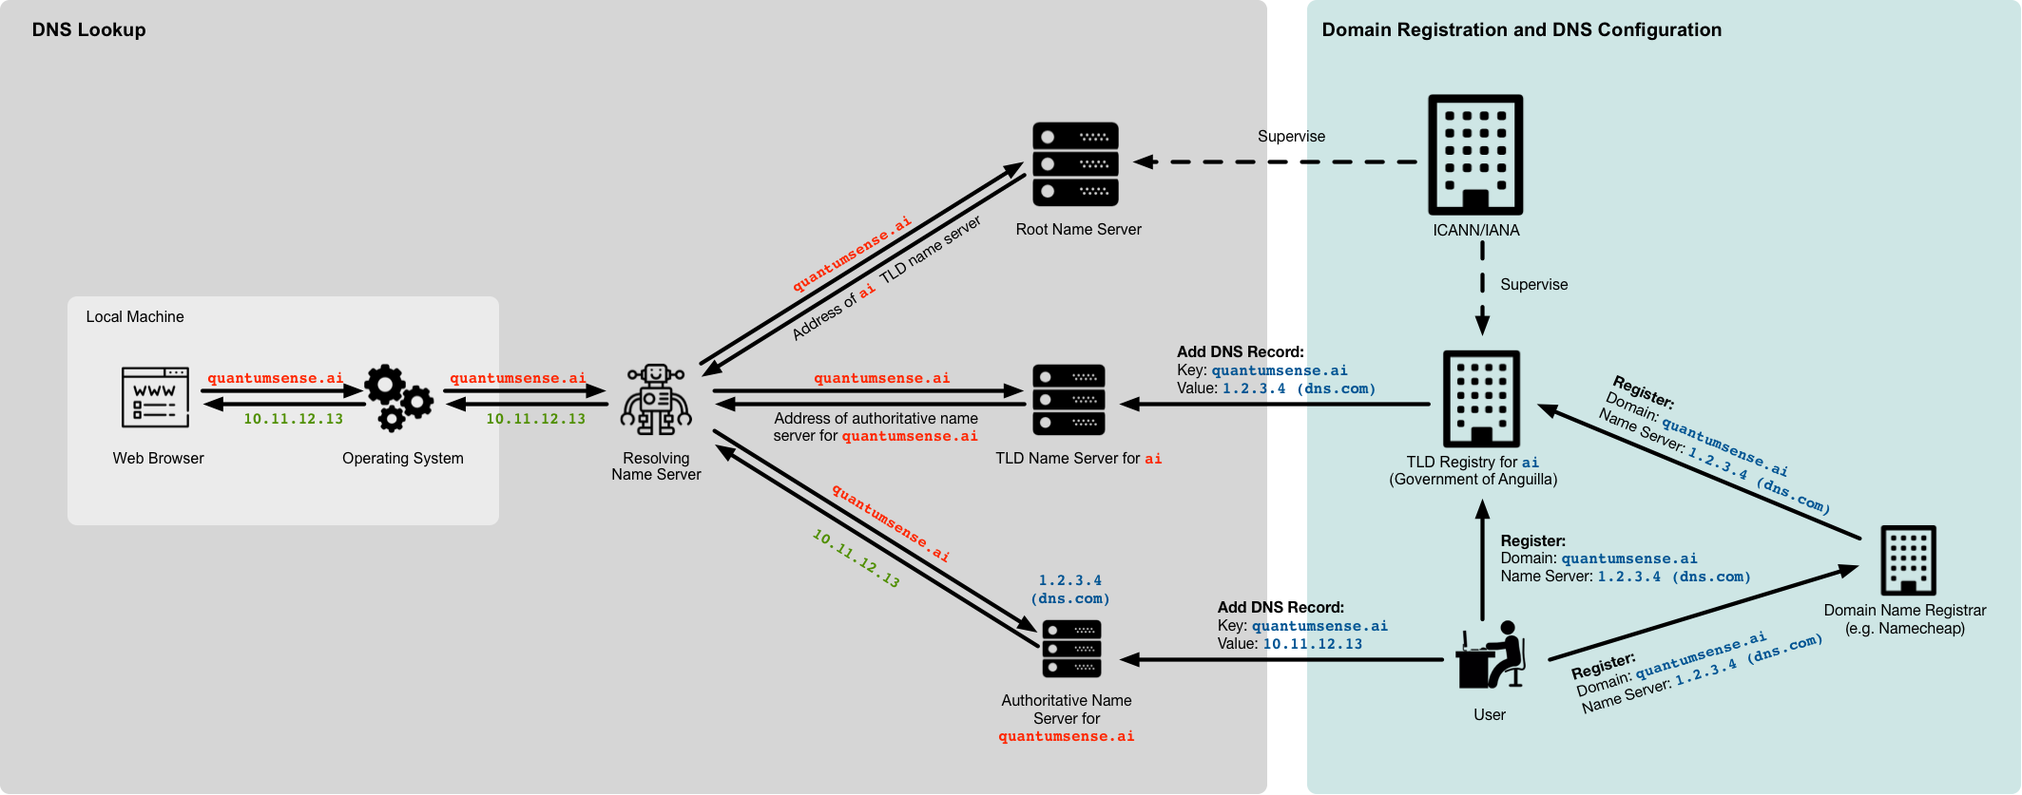
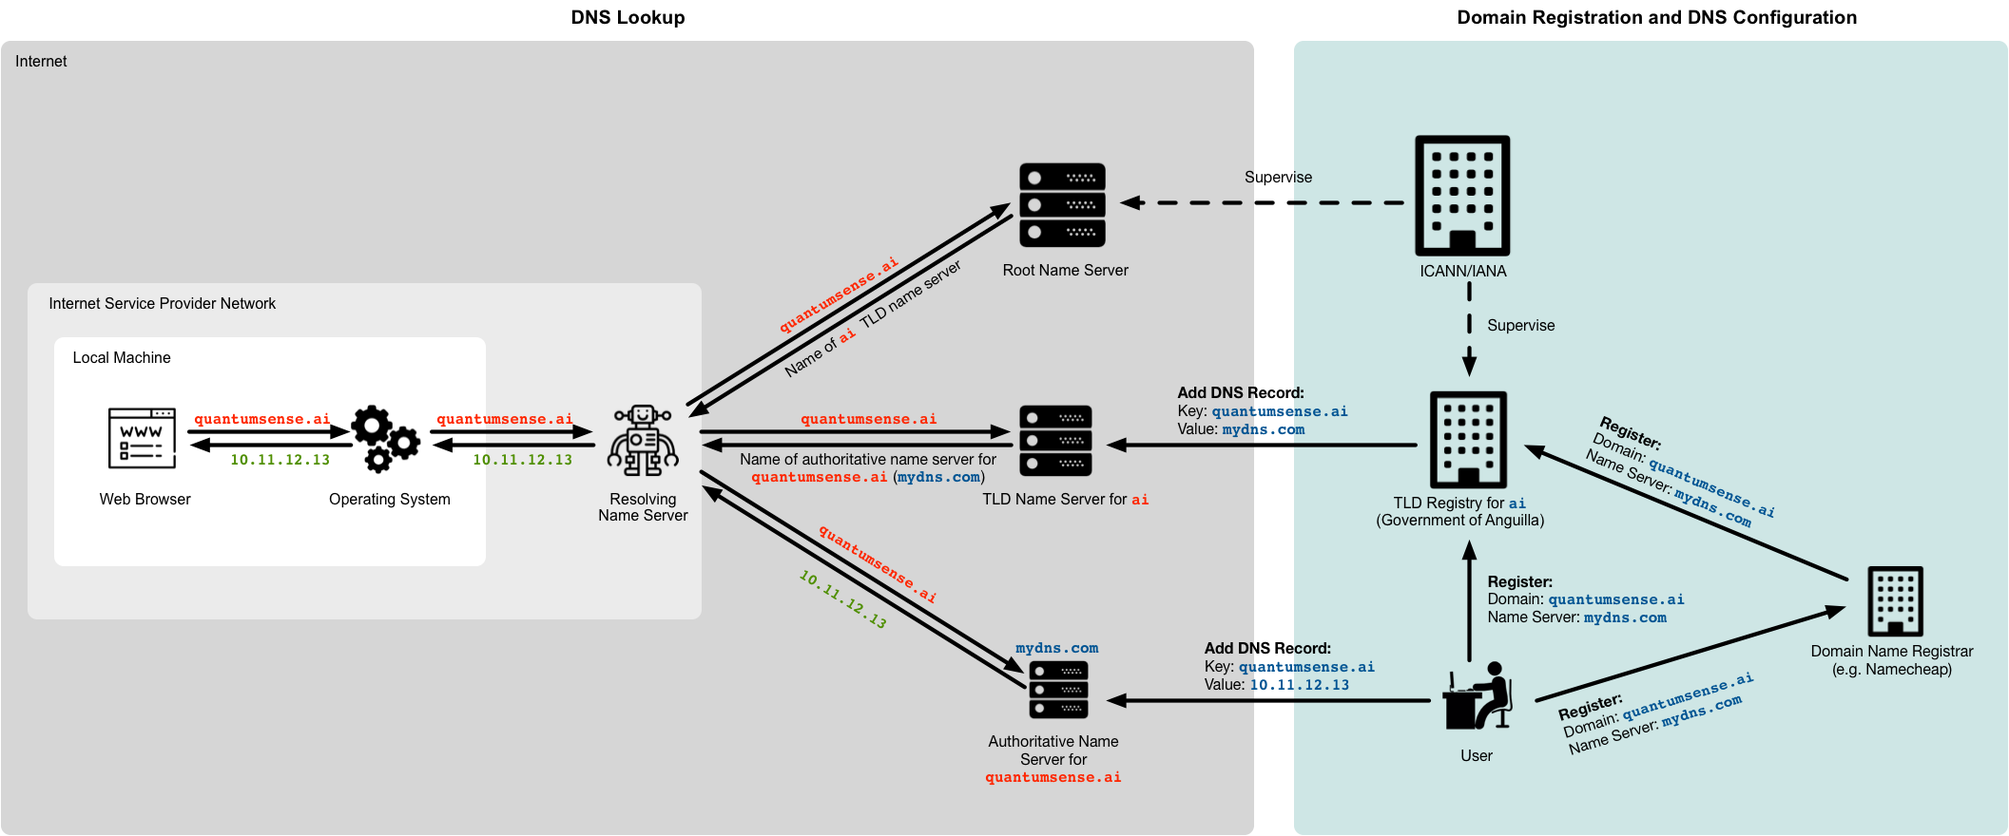
Edit document (How DNS works)

Changed region(s): [[0.0, 0.0, 0.9995, 0.994]]

diff --git a/_misc/dns.md b/_misc/dns.md
@@ -7,13 +7,18 @@ last_updated: 18 February 2018
 
 An overview of how the Domain Name System (DNS) works. It includes a step-by-step explanation of DNS lookups, and a section on domain registration and DNS configuration.
 
+# Contents
+
+- TOC
+{:toc .toc-skip-first}
+
 # Illustration
 
 [![DNS Overview](assets/dns.png){:width="100%"}](assets/dns.png){:.image-link}
 
 # DNS Lookup
 
-The DNS translates hostnames, like `quantumsense.ai` to IP addresses. Here is how a translation of the hostname `quantumsense.ai` to an IP address of a webserver works (this corresponds ot the left part of above illustration):
+The DNS translates hostnames, like `quantumsense.ai` to IP addresses. Here is how a translation of the hostname `quantumsense.ai` to an IP address of a webserver works (this corresponds to the left part of above illustration):
 
 ## 1. Web Browser
 
@@ -24,13 +29,13 @@ The **operating system** checks its cache. If it has no cached entry for `quantu
 
 ## 3. Resolving Name Server
 
-The **resolving name server** that the operating system contacts is typically operated by the Internet Service Provider (ISP) or organisation (company, university) of the network that the machine is connected to. Find out which resolving name servers are configured in your operating system with:
+The **resolving name server** that the operating system contacts is typically operated by the Internet Service Provider (ISP) or organisation (company, university) of the network that the machine is connected to. You can find out which resolving name servers are currently configured in your operating system with:
 
 ~~~bash
 scutil --dns | grep 'nameserver\[[0-9]*\]'
 ~~~
 
-The resolving name servers knows one thing: an address of a root name server. So, the resolving name server checks its cache for an entry of `quantumsense.ai`. If it has none, it asks a root name server for the IP address of `quantumsense.ai`.
+The resolving name servers knows one thing: the IP address of a root name server. So, after checking its cache for an entry of `quantumsense.ai`, the resolving name server asks the root name server for the IP address of `quantumsense.ai`.
 
 ## 4. Root Name Server
 
@@ -38,13 +43,13 @@ The **root servers** are a network of hundreds of servers around the world that 
 
 The root servers are operated by different organisations, such as research institutions, companies, governments, universities, and ICANN itself. Here is some information from IANA about the [root servers](https://www.iana.org/domains/root/servers). And here is a [map](http://www.root-servers.org/) showing where all the root servers are located and who operates them.
 
-A root server has to know one thing: an address of a top-level domain (TLD) name server for each TLD.
+A root server has to know one thing: the name of a top-level domain (TLD) name server for each existing TLD.
 
 There exist two main types of TLDs: generic TLDs (gTLD) and country-code TLDs (ccTLDs). Country-code TLDs consist of two letters, and generic TLDs consist of three or more letters.
 
 Here, IANA lists all existing [TLDs](https://www.iana.org/domains/root/db) along with the TLD registry who manages this TLD.
 
-The root server doesn't know the IP address of `quantumsense.ai`, but it knows the IP address of an `ai` TLD name server, and it returns this address to the resolving name server. This allows the resolving name server to ask this `ai` TLD name server for the IP address of `quantumsense.ai`.
+The root server doesn't know the IP address of `quantumsense.ai`, however, as mentioned, it knows the name of an `ai` TLD name server, which it returns to the resolving name server. This is going to allow the resolving name server to ask this `ai` TLD name server for the IP address of `quantumsense.ai`.
 
 ## 5. TLD Name Server
 
@@ -52,49 +57,127 @@ The **TLD name servers** are operated by the TLD registry of each TLD (which are
 
 A TLD registry manages all the domain name registrations under its TLD. The TLD registry determines the prices and conditions for a domain registration. For example, if you want to register the domain `example.com`, you have to do this with the TLD registry for `com`, which is [VeriSign](https://www.verisign.com/). Or if you want to register the domain `example.ca`, you have to go to the TLD registry of `ca`, which is the Canadian Internet Registration Authority ([CIRA](https://cira.ca/)).
 
-Note that actually you don't have to go to the TLD registry directly, because there are middlemen companies that can handle the interaction with the official TLD registry for you. These middlemen company are called domain name registrars, and examples are [Namecheap](https://www.namecheap.com/), [GoDaddy](https://godaddy.com), or [Marcaria](https://www.marcaria.com).
+Note that actually you don't have to go to the TLD registry directly, because there are retailing companies that are called **domain name registrars**. Examples are [Namecheap](https://www.namecheap.com/), [GoDaddy](https://godaddy.com), or [Marcaria](https://www.marcaria.com). These companies handle the interaction with the official TLD registry for you, and you can typically register domains of different TLDs with them.
 
-So, in the case of `quantumsense.ai`, a peek on the IANA [TLD list](https://www.marcaria.com) reveals that the registry for the `ai` TLD is the [Government of Anguilla](http://www.gov.ai/) (because `ai` is the country-code TLD of Anguilla). This means that the IP address that the resolving name server received from the root name server is the address of a TLD name server operated by the Government of Anguilla (actually, the servers don't have to be operated by the registry itself, but the registry is responsible for their operation).
+So, in the case of `quantumsense.ai`, the IANA [TLD list](https://www.iana.org/domains/root/db/ai.html) reveals that the registry for the `ai` TLD is the [Government of Anguilla](http://www.gov.ai/) (because `ai` is the ccTLD of Anguilla). This means that the name the resolving name server received from the root name server belongs to a TLD name server operated by the Government of Anguilla. You can see the current TLD name servers for the `ai` TLD [here](https://www.iana.org/domains/root/db/ai.html) in the IANA TLD list.
 
-A TLD server doesn't know the IP address of any domain using its TLD. That is, the Government of Anguilla TLD server does not know the IP address of `quantumsense.ai`. However, what the TLD name server know is the IP address of yet another name server that knows the desired IP address. This latter name server is called the authoritative name server of `quantumsense.ai`.
+The `ai` TLD name server doesn't know the IP address of `quantumsense.ai`, but what it know is the name of a name server that is responsible for the `quantumsense.ai` domain. It thus returns this name of this name server to the resolving name server. This will finally allow the resolving name server to get the IP address of `quantumsense.ai`.
 
-So, the TLD server returns the IP address of an authoritative name server for `quantumsense.ai` to the resolving name server. This will finally allow the resolving name server to get the IP address of `quantumsense.ai`.
+If you wonder how the `ai` TLD name server knows a name server that is responsible for the `quantumsense.ai` domain, this will be explained the [next section](#domain-registration-and-dns-configuration).
 
 ## 6. Authoritative Name Server
 
-**Authoritative name servers** are name servers that know the IP address of a sub-TLD domain name, such as `quantumsense.ai`.
+The name server that was returned by the `ai` TLD name server to the resolving name server is an **authoritative name server** for the `quantumsense.ai` domain. This means that it hosts the mapping of this domain name to an IP address (that was installed there by the user). So, at this point, there are no more redirections to other name servers, but the authoritative name server directly returns the IP address of `quantumsense.ai` to the resolving name server.
 
-This type of name severs can be operated by anyone. You can run one yourself for your domain. The only condition is that it runs on a machine that is connected to the Internet. This can be a machine in your home, or a rented computing instance in the cloud (e.g. on Amazon Web Services). Here is an example of how to [run your own DNS server](https://zwischenzugs.com/2018/01/26/how-and-why-i-run-my-own-dns-servers/).
+Name servers that are authoritative for sub-TLD zones (like `quantumsense.ai` or `foo.mydomain.com`) can be operated by anyone. You can run one yourself for your domain. The only condition is that it runs on a machine that is connected to the Internet. Here is an example of how to [run your own DNS server](https://zwischenzugs.com/2018/01/26/how-and-why-i-run-my-own-dns-servers/).
 
-Most of the time, however, authoritative name servers are operated by DNS hosting providers. Examples are [ns1](https://ns1.com/), [FreeDNS](https://freedns.afraid.org/), or [Google Cloud DNS](https://cloud.google.com/dns/). Note that also domain name registrars, such as [Namecheap](https://www.namecheap.com/), and some TLD registries, such as [CIRA](https://cira.ca/), run authoritative name severs, and if you register your domain with them, they usually propose to use their name servers for your domain as a default option. However, you can choose any name server you want for your domain.
+Most of the time, however, these types of name servers are operated by different types of companies and organisations.
 
-Wherever the authoritative name server, whose IP address was returned by the TLD name server, runs, and whoever manages it, this name server now finally returns the IP address of `quantumsense.ai` to the resolving name server.
+Examples are:
+
+- Dedicated DNS hosting companies, such as [ns1](https://ns1.com/), [DNSimple](https://dnsimple.com/), [DNS Made Easy](https://dnsmadeeasy.com/), [FreeDNS](https://freedns.afraid.org/), or [Google Cloud DNS](https://cloud.google.com/dns/).
+- Domain name registrars, such as [Namecheap](https://www.namecheap.com/), [GoDaddy](https://godaddy.com), or [Marcaria](https://www.marcaria.com). These companies provide DNS hosting as an additional service to their core business (the registration of domain names).
+- Some TLD registries, such as [CIRA](https://cira.ca/). These are typically the TLD registries that allow to register domain names directly with them. Not all TLD registries do this, many refer users to domain name registrars.
+- Web hosting providers , and some TLD registries, such [DreamHost](https://www.dreamhost.com/) and many others. These companies typically provide domain name registration and DNS hosting as an additional service to their core business (website hosting).
+
+Wherever the authoritative name server, whose name was returned by the TLD name server, runs, and whoever manages it, this name server now can finally return the IP address of `quantumsense.ai` to the resolving name server.
 
 ## 7. Back to the Web Browser
 
-So, the resolving name server just found out the IP address of `quantumsense.ai`. It passes this IP address to the operating system on the local machine (answering its previous request), and the operating system passes the IP address to the web browser (answering its previous request as well).
+So, finally the resolving name server got the desired IP address of `quantumsense.ai`. It passes it back to the operating system, which in turn passes it back to the web browser.
 
-And now finally the web browser is able to establish a connection to the `quantumsense.ai` webserver in order to load the website that is hosted there.
+## Notes
 
+Clearing up some things that might be bugging you.
+
+### Caching
+
+During this entire journey, the resolving name server stores all the IP addresses it finds out (of the `ai` TLD name server, of the `quantumsense.ai` authoritative name server, and of the `quatumsense.ai` domain) in its cache. In this way, it can answer any future requests to one of these domain names immediately.
+
+And also the operating system and the web browse store the IP address of `quantumsense.ai` in their DNS cache. In this way, when the user requests a page of the same website again (for example, by navigating to another page), the browser knows the corresponding IP address immediately, and no further lookups are necessary.
+
+The amount of time that these DNS records are maintained in cache by these entities is called Time To Live ([TTL](https://en.wikipedia.org/wiki/Time_to_live#DNS_records)). When the TTL expires, the record is removed from the cache, and it has to be looked up again. This ensures that when a record on a name sever changes (for example, the IP address associated with a certain domain changes), this change will eventually propagate to the client side.
+
+### Hierarchical Structure
+
+An important observation about DNS is that it's **hierarchical.** On each so-called zone, the name servers know just the name of another name server that is responsible for the next-deeper zone of the domain name. It is only the name servers corresponding to the deepest zone of a domain name, that know the concrete IP address of this domain.
+
+In the provided example, the number of zones is 3 (root zone, `ai` TLD zone, and `quantumsense.ai` zone). However, this number is not restricted to 3, but it can be anything.
+
+If you are the owner of a domain, say `mydomain.com`, then you are basically the registry for this domain. You could sell sub-domains to other people, if you want, such as `foo.mydomain.com` and `bar.mydomain.com`.
+
+You would still need to maintain a name server for `mydomain.com`, and you have to provide the name of this name server to the `com` TLD registry. However, at the same time, you are responsible for any DNS requests for a `*.mydomain.com` domain. That is, all requests to a `*.mydomain.com` domain go to your `mydomain.com` name server that you indicated to the `com` TLD registry, and you are responsible for handling them. That means you need to require each registrant of a `*.mydomain.com` sub-domain to supply you the name of a name server for this specific sub-domain, so that you can add an appropriate record to your `mydomain.com` name server. Just as the `com` TLD registry does with you!
+
+DNS is designed to work like this on and on, down to any level of depth.
+
+### Resolution of Name Server Responses
+
+One thing must be bugging you: if, say, the `ai` TLD name server returns the name `mydns.com` for the name server that is responsible for `quantumsene.ai`, and the resolving name server now has to contact `mydns.com`, how does the resolving name server find out the IP address of `mydns.com`?
+
+The answer is, by DNS again. The resolving name server basically starts a new DNS query until it finds out the IP address of `mydns.com`, at which point it can continue the resolution of `quantumsense.ai`.
+
+Fortunately, this process can be abbreviated with caching, so that the resolving name server has the IP addresses of certain name servers in its cache and doesn't need to look them up through DNS.
+
+### Glue Records
+
+One problem remains: imagine you own the domain `mydomain.com` and you operate your own authoritative name server for this domain (for example, running in your home or on a computing instance in the cloud). Furthermore, you want this name server to be accessible through `ns.mydomain.com` (because you don't want to register another domain just for your name server).
+
+So, in this case, you would declare `ns.mydomain.com` as the name server for your `mydomain.com` domain to the `com` TLD registry. Now, there's a problem. Imagine some resolving name server (resolver) is resolving `mydomain.com`:
+
+1. The resolver asks the `com` TLD name server for `mydomain.com`.
+2. The `com` TLD name server returns `ns.mydomain.com` as the name server responsible for `mydomain.com`.
+3. The resolver now has to resolve `ns.mydomain.com`.
+4. The resolver ends up again at the `com` TLD name server, asking for `ns.mydomain.com`.
+5. The `com` TLD name server returns `ns.mydomain.com` as the name server responsible for `mydomain.com` (and any sub-domains beneath it).
+
+As you can see, the steps  3--5 above form an infinite loop. This is because in order to resolve `mydomain.com`, the resolver first has to resolve `ns.mydomain.com`, but to resolve `ns.mydomain.com`, the resolver first has to resolve `mydomain.com`.
+
+[Glue records](https://help.1and1.com/domains-c36931/manage-domains-c79822/dns-c37586/explanation-of-a-glue-record-a595844.html) resolve this issue. A glue record is simply an IP address associated with a DNS entry.
+
+In the above example, when you declare your name server for your domain `mydomain.com` to the `com` TLD provider, you would declare not only the hostname `ns.mydomain.com`, but the hosts IP address along with it.
+
+So, for example, your glue record declaration would look like:
+
+~~~
+ns.mydomain.com 20.21.22.23
+~~~
+
+Instead of just a normal name server declaration:
+
+~~~
+ns.mydomain.com
+~~~
+
+Now, in step 2 above, when the resolver asks the `com` TLD name server for `mydomain.com`, the TLD name server returns not only the name `ns.mydomain.com`, but also the IP address `20.21.22.23`. In this way, the resolver can contact `ns.mydomain.com` directly, without any further DNS lookups, and the infinite loop is avoided.
+
+The disadvantage of a glue record is that there is now a hardcoded IP address in the `com` TLD name servers. That means, if the IP address of your `ns.mydomain.com` name server changes you have to declare this change to the `com` TLD registry, and the change must propagate through all the `com` TLD name servers.
+
+Without glue records, if the IP address of a name server, say `mydns.com`, changes, it has to be updated only in the name servers that are authoritative for `mydns.com`, which are on a lower hierarchy level than the name servers for `com`.
 
 # Domain Registration and DNS Configuration
 
 Reading through the above process, everything seems to make sense, except two points:
 
-1. How does the TLD name server know the IP address of an authoritative name server of a given domain name?
+1. How does the TLD name server know the name of an authoritative name server for a given domain name?
     - For example, how does the `ai` TLD name server know the authoritative name server for `quantumsense.ai`?
 2. How does an authoritative name server know the IP address that belongs to a given domain name?
     - For example, how does the authoritative name server of `quantumsense.ai` know the IP address belonging to this domain?
 
-The following two subsections answer these question (not that this section corresponds to the right part of the illustration at the beginning).
+The following two subsections answer these question (note that this section corresponds to the right part of the illustration at the beginning).
 
 ## Configure TLD Name Server
 
-The answer to question 1 above is as follows: when you register a domain name (either with a TLD registry, such as [CIRA](https://cira.ca/) or a domain name registrar, such as [Namecheap](https://www.namecheap.com/)), you are required to provide the names of two name servers that are authoritative for your domain (the number of two is to provide redundancy, in case one of the name server crashes). 
+The answer to question 1 above is as follows: when you register a domain name, you are required to provide the names of two name servers that are authoritative for your domain to the registrar. The registrar passes this information to the TLD registry, and the TLD registry adds an appropriate record to its name servers.
 
-If you use a registrar like Namecheap, they propagate this information to the TLD registry. The TLD registry then pushes this information to its TLD name servers. That is, it adds an entry to all its TLD name servers consisting of your domain (e.g. `quantumsense.ai`) and the IP addresses of the authoritative name servers that you provided.
+In this way, for any domain that has been registered under a given TLD, the TLD name servers know a name sever that is responsible for this domain, and they can refer requests accordingly.
 
-In this way, whenever an `ai` TLD server receives a request for `quantumsense.ai`, it knows the IP address of a name server that knows the IP address of this domain. This answers question 1.
+Note that the number of name servers that you have to provide to a TLD registry is usually at least two. This is to provide redundancy in the case one of the name servers fails.
+
+You can review at any time the name servers that you registered with your domain name at your TLD registry with the `whois` command:
+
+~~~bash
+whois mydomain.com
+~~~
 
 ## Configure Authoritative Name Server
 
@@ -102,19 +185,10 @@ The answer to question 2 above is as follows: well, you directly configure the a
 
 DNS servers are configured by adding so-called **DNS records**. These are simple key-value pairs where the key is a domain name. Here is a list of the most common [DNS records](https://support.marcaria.com/hc/en-us/articles/215527983-What-are-DNS-records-). Wikipedia also has a full list of [all DNS records](https://en.wikipedia.org/wiki/List_of_DNS_record_types).
 
-For simply tying an IP address to a domain name, you have to add an **A record** that has the domain name as its key, and the desired IP address as its value.
+For simply mapping a domain name to an IP address, you can add an **A record**. An A record has a domain name as its key and an IP address as its value.
 
-For example, if you have a GitHub Pages website that you want to be accessible under your custom domain, you have to add an A record with your domain and an IP address provided by GitHub Pages to to the DNS server that you provided to your TLD registry when you registered the domain. As mentioned, this name server may be either run by your TLD registry itself (like CIRA), by your registrar (like Namecheap), by a DNS hosting provider (like ns1), or even by yourself. The important thing is that you are able to configure this DNS server.
+For example, if you have a GitHub Pages website that you want to be accessible under your custom domain, you have to add an A record with your domain and an IP address provided by GitHub Pages to to the DNS server that you provided to your TLD registry when you registered the domain. As mentioned, this name server may be either run by your TLD registry, by your domain name registrar, by a web hosting provider, by a DNS hosting provider, or even by yourself. The important thing is that you are able to add the required records to this DNS server.
 
-And this is how the authoritative name server of your domain knows the IP address belonging to this domain, which answers question 2.
+# References
 
-
-# Notes
-
-An important observation about DNS is that it's **hierarchical.** On each level, the name servers know just the address of another name server that is responsible for the next-deeper level of the domain name, except on the level that corresponds to the "depth" of the domain name, which knows the concrete IP address of this domain name.
-
-For example, for the IP address of a domain like `quantumsense.ai`, the requests have to go through three level, because this domain has a "depth" of three (root level, TLD level, and sub-TLD level).
-
-However, the number of levels in DNS is unrestricted. For example, if you own the domain `quantumsense.ai`, you could in turn issue sub-domains, such as `a.quantumsense.ai`, `b.quantumsense.ai`, and so on. And then your name server on level 3 would act just as an intermediary name server for these domains. That is, your name server on level 3 would not be authoritative for `a.quantumsense.ai`, but it would in turn have to know another name server that is authoritative for this domain and return its IP address to the requester.
-
-DNS is designed to work in this fashion on and on, down to any depth of nestings.
+- Here's a [comic](https://howdns.works/) explaining how DNS works. Don't miss the bonus part on glue records.
